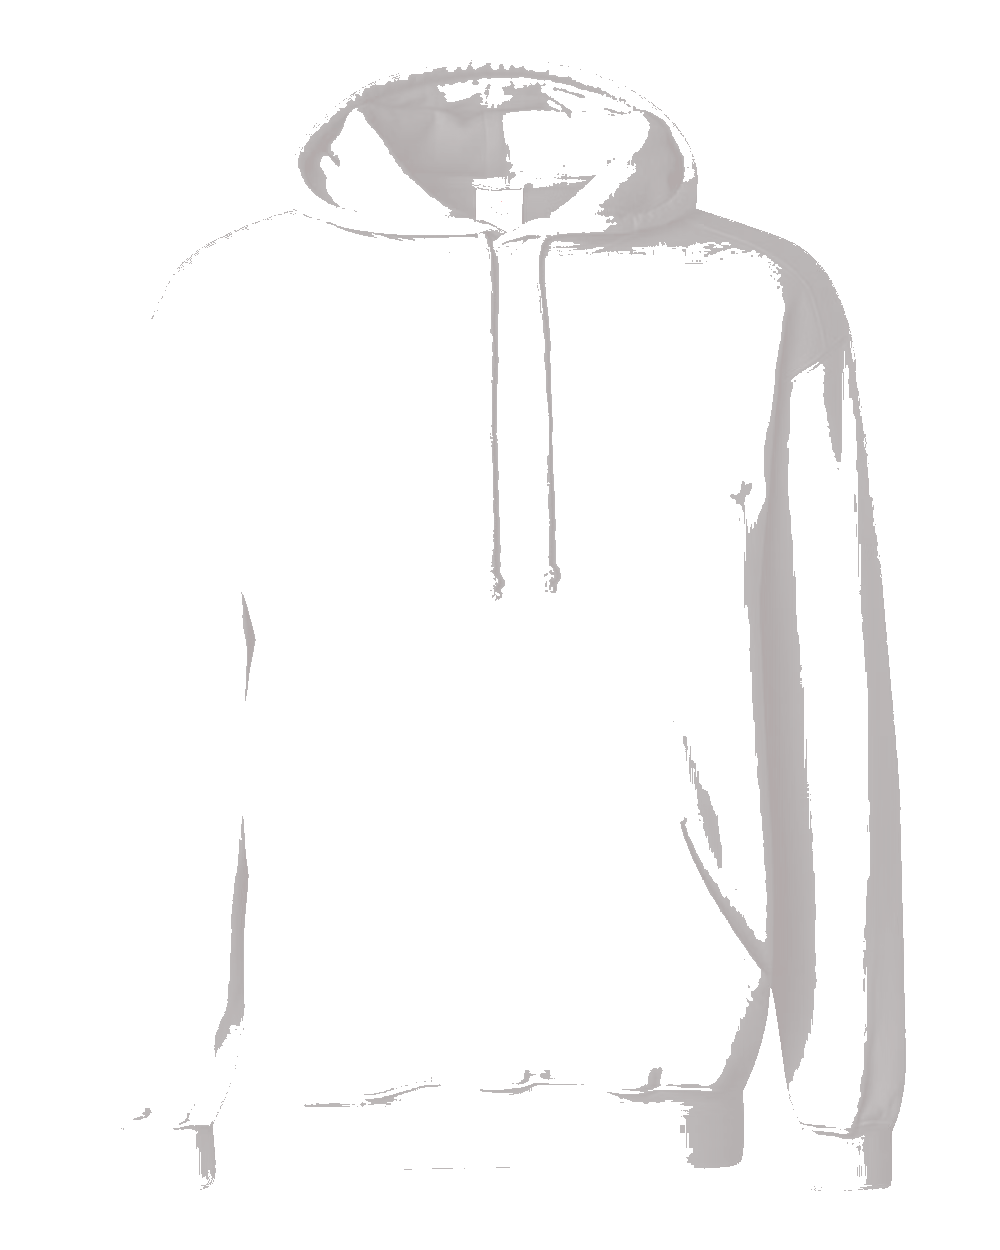
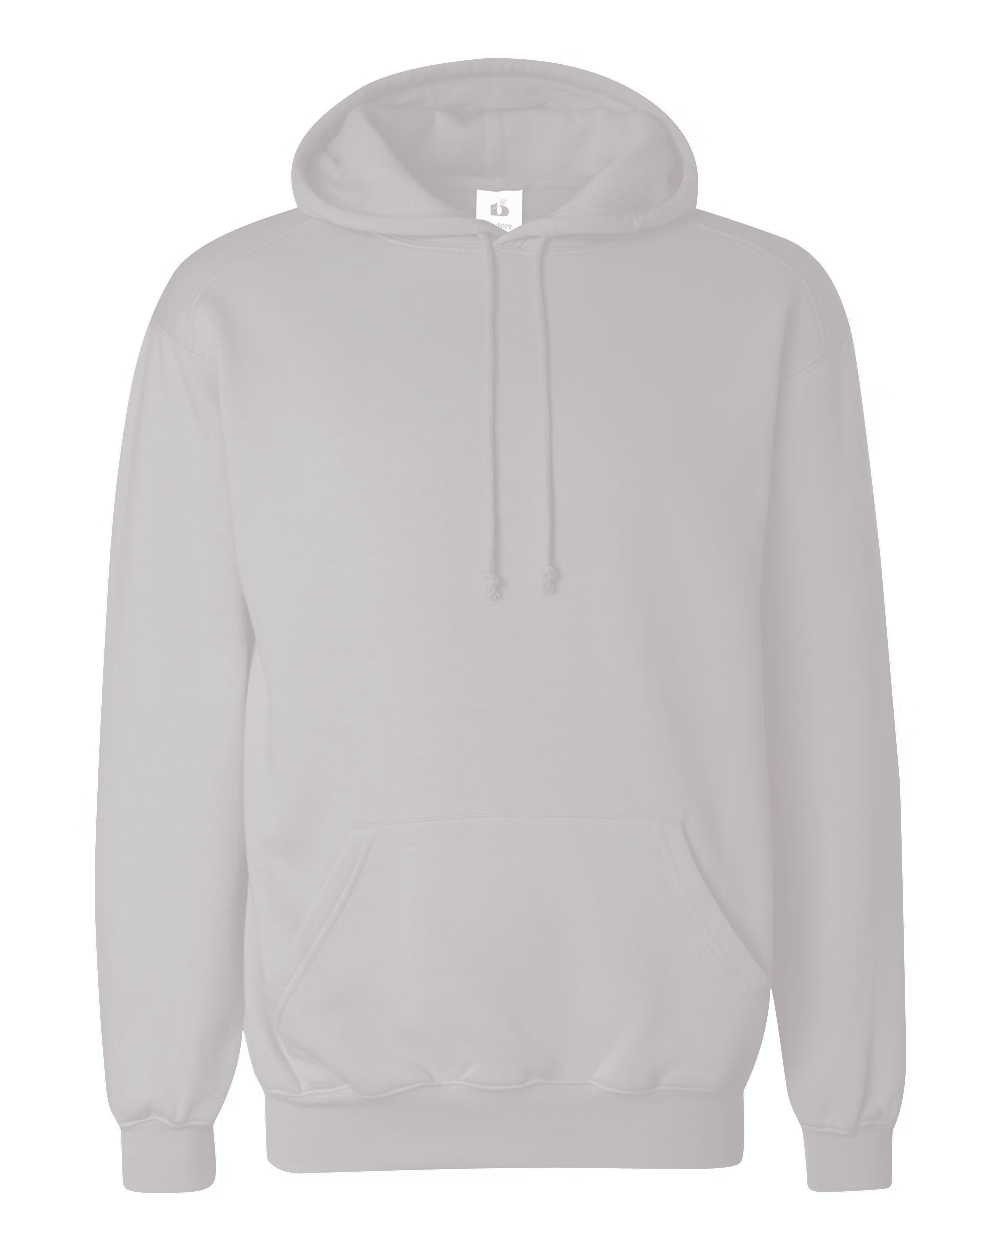
Restore white garment mocks and bump to v24

diff --git a/src/App.jsx b/src/App.jsx
@@ -27,7 +27,7 @@ const PRICING_CONFIG = {
 const DEFAULT_APPAREL = 'standard'
 const ROCK_BOTTOM_UNIT_PRICE = 8.5
 const ASSET_BASE_URL = import.meta.env.BASE_URL
-const APP_VERSION = 'v23'
+const APP_VERSION = 'v24'
 
 const getGarmentImagePrefix = (apparelType) => {
   if (apparelType === 'polo' || apparelType === 'hoodie') {
@@ -623,6 +623,9 @@ function App() {
   const shirtColorRgb = hexToRgb(selection.shirtColor.hex)
   const quoteBaseCss = `${shirtColorRgb.red}, ${shirtColorRgb.green}, ${shirtColorRgb.blue}`
   const quoteHueRotation = rgbToHue(quoteAccentColor)
+  const shirtMockupClassName = `shirt-mockup-image${
+    form.shirtColor === 'white' ? ' shirt-mockup-image-white' : ''
+  }`
 
   useEffect(() => {
     let isActive = true
@@ -1104,7 +1107,7 @@ function App() {
                     <img
                       src={selection.shirtColor.frontImage}
                       alt={`${selection.shirtColor.label} shirt front`}
-                      className="shirt-mockup-image"
+                      className={shirtMockupClassName}
                     />
                     {Object.entries(GRAPHIC_LAYOUTS).map(([field, config]) => {
                       if (config.view !== 'front' || !form.printLocations[field] || !graphics[field]) {
@@ -1145,7 +1148,7 @@ function App() {
                     <img
                       src={selection.shirtColor.backImage}
                       alt={`${selection.shirtColor.label} shirt back`}
-                      className="shirt-mockup-image"
+                      className={shirtMockupClassName}
                     />
                     {Object.entries(GRAPHIC_LAYOUTS).map(([field, config]) => {
                       if (config.view !== 'back' || !form.printLocations[field] || !graphics[field]) {
@@ -1285,7 +1288,7 @@ function App() {
                       <img
                         src={selection.shirtColor.frontImage}
                         alt={`${selection.shirtColor.label} ${selection.garmentLabel} front`}
-                        className="shirt-mockup-image"
+                        className={shirtMockupClassName}
                       />
                       {Object.entries(GRAPHIC_LAYOUTS).map(([field, config]) => {
                         if (config.view !== 'front' || !form.printLocations[field] || !graphics[field]) {
@@ -1323,7 +1326,7 @@ function App() {
                       <img
                         src={selection.shirtColor.backImage}
                         alt={`${selection.shirtColor.label} ${selection.garmentLabel} back`}
-                        className="shirt-mockup-image"
+                        className={shirtMockupClassName}
                       />
                       {Object.entries(GRAPHIC_LAYOUTS).map(([field, config]) => {
                         if (config.view !== 'back' || !form.printLocations[field] || !graphics[field]) {

diff --git a/src/App.css b/src/App.css
@@ -259,6 +259,13 @@
   filter: drop-shadow(0 14px 24px rgba(0, 0, 0, 0.2));
 }
 
+.shirt-mockup-image-white {
+  filter:
+    drop-shadow(0 0 0.6px rgba(255, 255, 255, 0.95))
+    drop-shadow(0 12px 24px rgba(0, 0, 0, 0.24))
+    drop-shadow(0 0 18px rgba(255, 255, 255, 0.14));
+}
+
 .graphic-overlay {
   position: absolute;
   display: grid;
